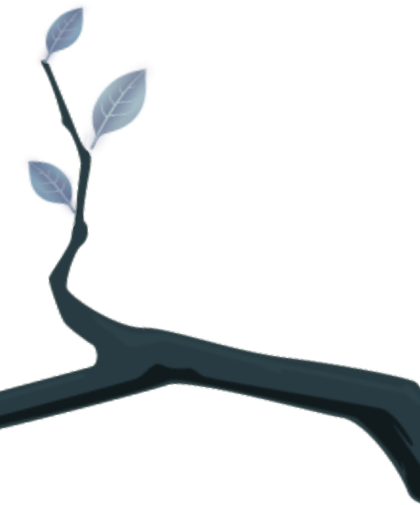
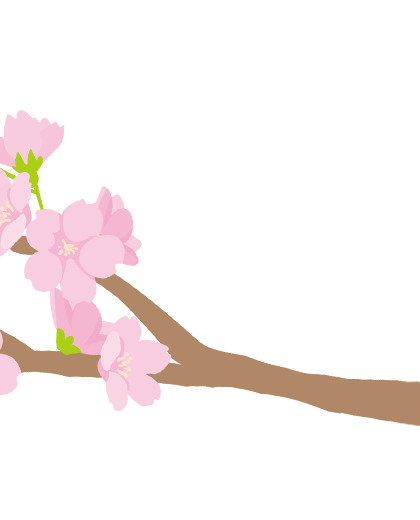
桜背景

Changed region(s): [[0.0, 0.0, 1.0, 1.0]]

diff --git a/styles/content.module.css b/styles/content.module.css
@@ -148,7 +148,9 @@
   /* クリスマス */
   /* background: #9b0d0d; */
   /* 冬 */
-  background: #034188;
+  /* background: #034188; */
+  /* 桜 */
+  background: #ff8d8d;
   transition: 0.2s;
   margin-top: 5px;
   padding: 0.8em 1em;
@@ -164,7 +166,9 @@
   /* クリスマス */
   /* background: #b92f2f; */
   /* 冬 */
-  background: #144d8d;
+  /* background: #144d8d; */
+  /* 桜 */
+  background: #fdb1b1;
   color: white;
   cursor: pointer;
 }
@@ -182,7 +186,9 @@
   /* クリスマス */
   /* background: #9b0d0d; */
   /* 冬 */
-  background: #034188;
+  /* background: #034188; */
+  /* 桜 */
+  background: #ff8d8d;
   transition: 0.2s;
   margin-top: 5px;
   padding: 0.8em 1em;
@@ -204,7 +210,9 @@
   /* クリスマス */
   /* background: #b92f2f; */
   /* 冬 */
-  background: #144d8d;
+  /* background: #144d8d; */
+  /* 冬 */
+  background: #fdb1b1;
   transition: 0.2s;
   margin-top: 5px;
   padding: 0.8em 1em;
@@ -232,7 +240,10 @@
   /* クリスマス */
   /* background: #9b0d0d; */
   /* 冬 */
-  background: #034188;
+  /* background: #034188; */
+  /* 桜 */
+  background: #ffd7d7;
+  border: 3px solid #ff8787;
   border-radius: 5px;
   display: inline-block;
   vertical-align: top;
@@ -251,7 +262,9 @@
   /* クリスマス */
   /* background: #9b0d0d; */
   /* 冬 */
-  background: #034188;
+  /* background: #034188; */
+  /* 桜 */
+  background: #ff8d8d;
   transition: 0.2s;
   margin-right: 5px;
   padding: 1em 0em;
@@ -270,7 +283,9 @@
   /* クリスマス */
   /* background: #b92f2f; */
   /* 冬 */
-  background: #144d8d;
+  /* background: #144d8d; */
+  /* 桜 */
+  background: #ff8c8c;
   color: white;
   cursor: pointer;
 }

diff --git a/styles/menu.module.css b/styles/menu.module.css
@@ -12,7 +12,9 @@
   /* クリスマス */
   /* background-color: rgba(153, 21, 21, 0.8); */
   /* 冬 */
-  background-color: rgba(1, 32, 134, 0.8);
+  /* background-color: rgba(1, 32, 134, 0.8); */
+  /* 冬 */
+  background-color: rgba(255, 95, 95, 0.8);
   display: block;
   padding: 0px;
   margin: 0;
@@ -46,7 +48,9 @@
   /* クリスマス */
   /* background: #b92f2f; */
   /* 冬 */
-  background: #144d8d;
+  /* background: #144d8d; */
+  /* 桜 */
+  background: #ff8c8c;
   color: white;
   cursor: pointer;
 }
